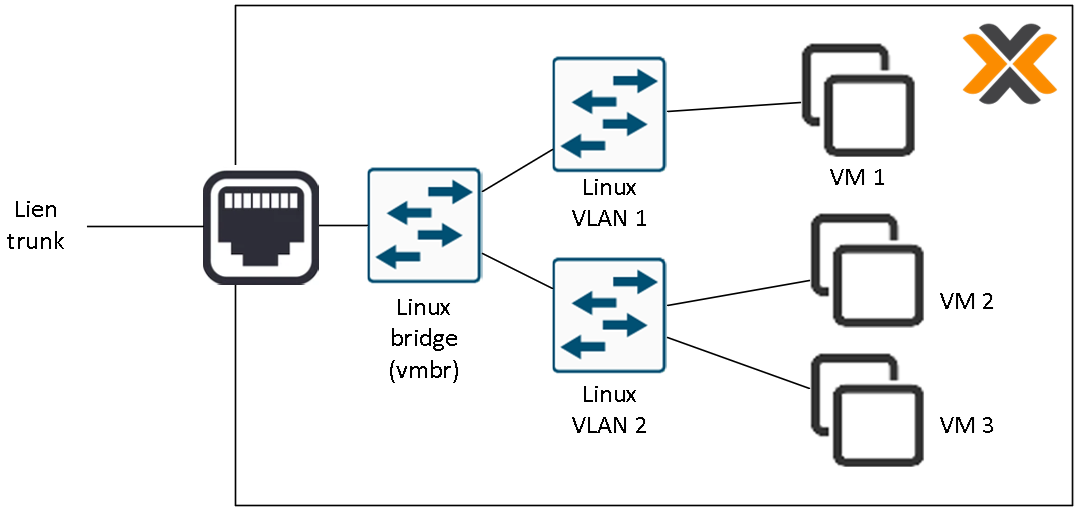
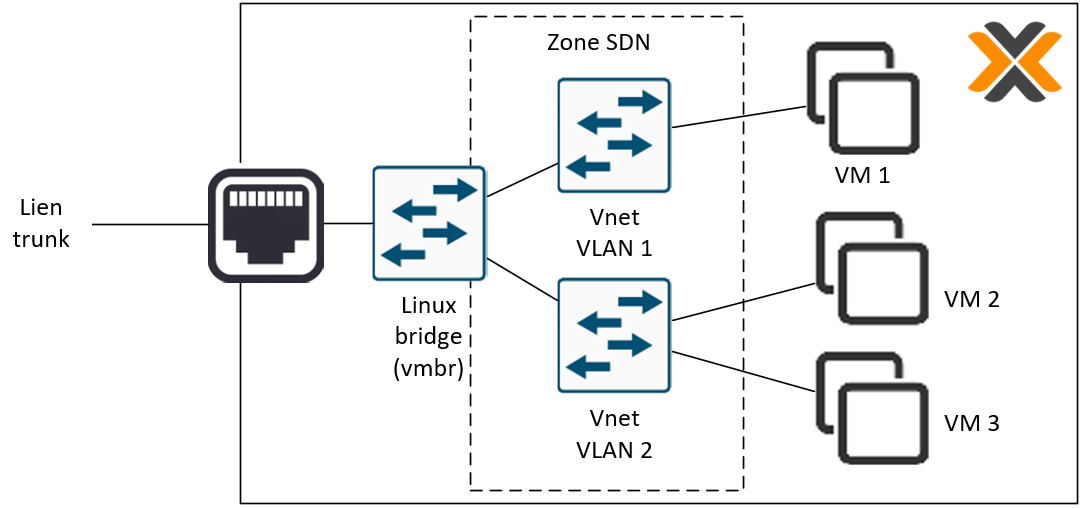
Modification réseaux proxmox (VLAN)

diff --git a/docs/cours/03-hyperviseurs/proxmox-reseaux.md b/docs/cours/03-hyperviseurs/proxmox-reseaux.md
@@ -7,15 +7,22 @@ Dans un hyperviseur, tous les éléments réseau se trouvant "derrière" la cart
 Il existe 3 principaux types d'éléments réseau très utiles dans Proxmox :
 
 - Linux **Brige** : un switch virtuel pouvant acheminer des VLAN (en mode trunk).
-- Linux **VLAN** : un switch virtuel dédié à un VLAN mettant à disposition des interfaces en mode access.
+- Linux **VLAN** : une interface virtuelle mettant à disposition un VLAN en mode access pour le serveur Proxmox.
 - Linux **Bond** : une aggrégation d'interfaces physiques gérant plusieurs protocoles (notamment LACP).
 
 Pour gérer les différents éléments réseaux de Proxmox, il suffit de cliquer sur le noeud en question dans l'interface web, puis d'aller dans l'item "Système" => "Réseau".
 
 
+
+Il existe également la possibilité de déployer des réseaux distribués virtuels (**SDN** ou Software Defined Networking) connecter des VMs en access à différents VLANs.
+Pour cela, il est nécessaire de créer une **zone de type VLAN**, et d'y attacher des **VNets** (réseaux virtuels) correspondant chacun à un VLAN. Il ne restera plus qu'à connecter les interfaces des VM directements aux bons VNets.
+
+La gestion des réseaux virtuels distribués est réalisée en cliquant sur le centre de données puis en allant dans l'item "SDN" => "Zones" pour les zones, ou "SDN" => VNets pour les réseaux virtuels.
+
+
 ## Combinaisons d'éléments
 
-Dans proxmox, il est possible de combiner ces différents éléments en les cascadant pour parvenir la solution recherchée. Ainsi, connecter un "Linux VLAN" sur un "Linux Bridge" permettra de connecter des machines virtuelles directement dans le VLAN voulu en access, en affectant l'une de ses carte réseau au "Linux VLAN" créé.
+Dans proxmox, il est possible de combiner ces différents éléments en les cascadant pour parvenir la solution recherchée. Vous trouverez quelques exemples ci-dessous.
 
 Exemple de connexion directe de VMs au réseau de l'hyperviseur :
 ![Connexion directe](../../medias/cours/proxmox/reseau-bridge.png)
